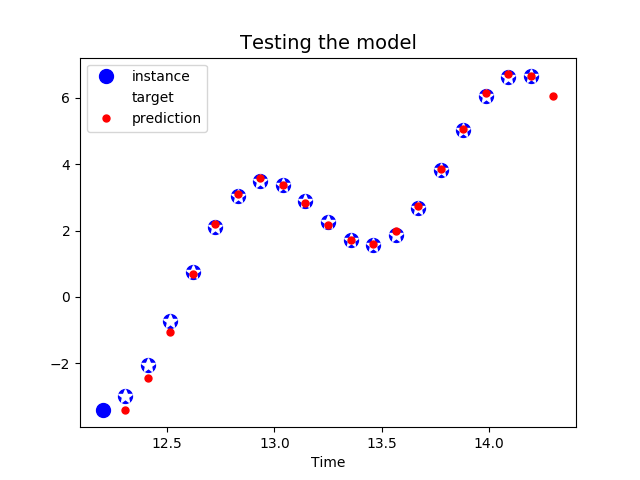
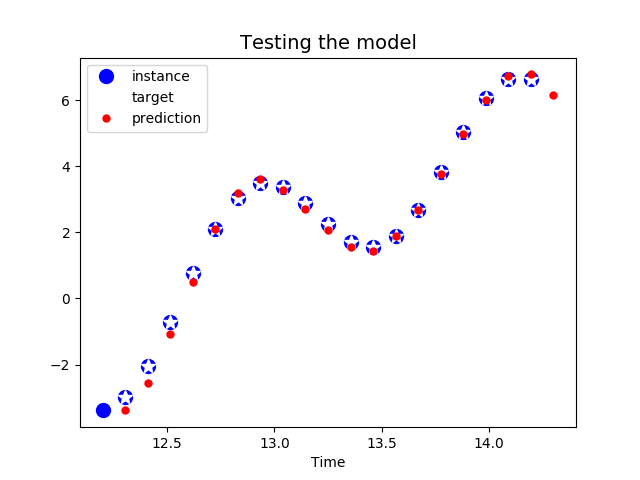
-

diff --git a/algs/tf/time.md b/algs/tf/time.md
@@ -1,15 +1,17 @@
 
 ```python
+np.random.seed(1)
+
 t_min, t_max = 0, 30
 resolution = 0.1
 
-def time_series(t):
+def f(t):
     return t * np.sin(t) / 3 + 2 * np.sin(t*5)
 
 def next_batch(batch_size, n_steps):
     t0 = np.random.rand(batch_size, 1) * (t_max - t_min - n_steps * resolution)
     Ts = t0 + np.arange(0., n_steps + 1) * resolution
-    ys = time_series(Ts)
+    ys = f(Ts)
     return ys[:, :-1].reshape(-1, n_steps, 1), ys[:, 1:].reshape(-1, n_steps, 1)
 
 t = np.linspace(t_min, t_max, int((t_max - t_min) / resolution))
@@ -20,8 +22,8 @@ t_instance = np.linspace(12.2, 12.2 + resolution * (n_steps + 1), n_steps + 1)
 plt.figure(figsize=(11,4))
 plt.subplot(121)
 plt.title("A time series (generated)", fontsize=14)
-plt.plot(t, time_series(t), label=r"$t . \sin(t) / 3 + 2 . \sin(5t)$")
-plt.plot(t_instance[:-1], time_series(t_instance[:-1]), "b-", linewidth=3, label="A training instance")
+plt.plot(t, f(t), label=r"$t . \sin(t) / 3 + 2 . \sin(5t)$")
+plt.plot(t_instance[:-1], f(t_instance[:-1]), "b-", linewidth=3, label="A training instance")
 plt.legend(loc="lower left", fontsize=14)
 plt.axis([0, 30, -17, 13])
 plt.xlabel("Time")
@@ -29,8 +31,8 @@ plt.ylabel("Value")
 
 plt.subplot(122)
 plt.title("A training instance", fontsize=14)
-plt.plot(t_instance[:-1], time_series(t_instance[:-1]), "bo", markersize=10, label="instance")
-plt.plot(t_instance[1:], time_series(t_instance[1:]), "w*", markersize=10, label="target")
+plt.plot(t_instance[:-1], f(t_instance[:-1]), "bo", markersize=10, label="instance")
+plt.plot(t_instance[1:], f(t_instance[1:]), "w*", markersize=10, label="target")
 plt.legend(loc="upper left")
 plt.xlabel("Time")
 plt.savefig('time_01.png')
@@ -68,7 +70,7 @@ training_op = optimizer.minimize(loss)
 
 init = tf.global_variables_initializer()
 
-n_iterations = 1500
+n_iterations = 400
 batch_size = 50
 
 saver = tf.train.Saver()
@@ -90,28 +92,17 @@ with tf.Session() as sess:
 (100, '\tMSE:', 0.57806575)
 (200, '\tMSE:', 0.17610031)
 (300, '\tMSE:', 0.086107321)
-(400, '\tMSE:', 0.065761395)
-(500, '\tMSE:', 0.066474326)
-(600, '\tMSE:', 0.055397537)
-(700, '\tMSE:', 0.049701054)
-(800, '\tMSE:', 0.0511938)
-(900, '\tMSE:', 0.048483677)
-(1000, '\tMSE:', 0.048555028)
-(1100, '\tMSE:', 0.049441505)
-(1200, '\tMSE:', 0.041582063)
-(1300, '\tMSE:', 0.048374038)
-(1400, '\tMSE:', 0.042768508)
 ```
 
 ```python
 with tf.Session() as sess:
     saver.restore(sess, mfile)
-    X_new = time_series(np.array(t_instance[:-1].reshape(-1, n_steps, n_inputs)))
+    X_new = f(np.array(t_instance[:-1].reshape(-1, n_steps, n_inputs)))
     y_pred = sess.run(outputs, feed_dict={X: X_new})
 
 plt.title("Testing the model", fontsize=14)
-plt.plot(t_instance[:-1], time_series(t_instance[:-1]), "bo", markersize=10, label="instance")
-plt.plot(t_instance[1:], time_series(t_instance[1:]), "w*", markersize=10, label="target")
+plt.plot(t_instance[:-1], f(t_instance[:-1]), "bo", markersize=10, label="instance")
+plt.plot(t_instance[1:], f(t_instance[1:]), "w*", markersize=10, label="target")
 plt.plot(t_instance[1:], y_pred[0,:,0], "r.", markersize=10, label="prediction")
 plt.legend(loc="upper left")
 plt.xlabel("Time")
